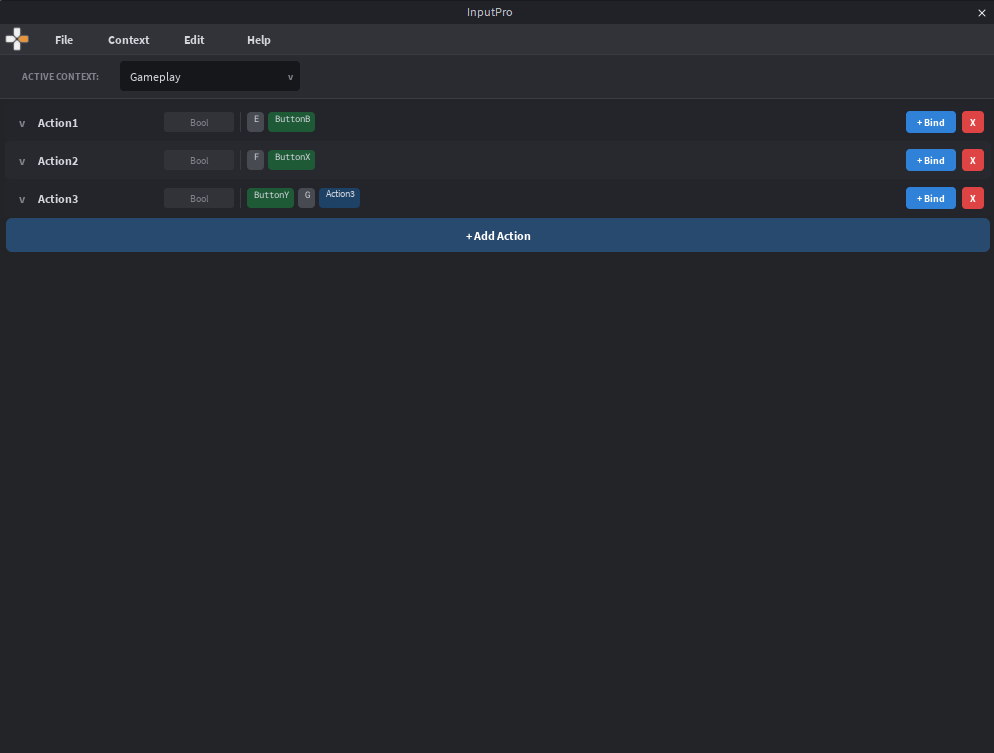
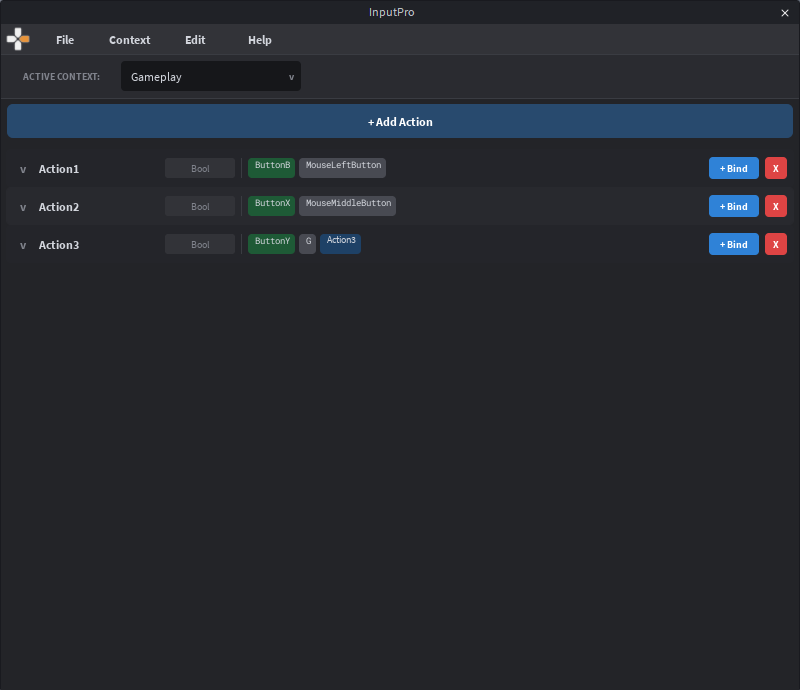
See change log 1.1.0

diff --git a/docs/index.html b/docs/index.html
@@ -189,7 +189,7 @@
 <!-- ============================================================ -->
 <nav>
   <div class="nav-inner">
-    <a href="#" class="logo"><svg xmlns="http://www.w3.org/2000/svg" viewBox="0 0 620 200" width="140" height="45"><g transform="translate(100, 100)"><path d="M-16,-49.5 Q-16,-55.5 -10,-55.5 L10,-55.5 Q16,-55.5 16,-49.5 L16,-23.5 Q16,-17.5 3,-7.5 Q0,-4.5 -3,-7.5 Q-16,-17.5 -16,-23.5 Z" fill="#f0f0f0"/><path d="M-16,49.5 Q-16,55.5 -10,55.5 L10,55.5 Q16,55.5 16,49.5 L16,23.5 Q16,17.5 3,7.5 Q0,4.5 -3,7.5 Q-16,17.5 -16,23.5 Z" fill="#f0f0f0"/><path d="M-49.5,-16 Q-55.5,-16 -55.5,-10 L-55.5,10 Q-55.5,16 -49.5,16 L-23.5,16 Q-17.5,16 -7.5,3 Q-4.5,0 -7.5,-3 Q-17.5,-16 -23.5,-16 Z" fill="#f0f0f0"/><path d="M49.5,-16 Q55.5,-16 55.5,-10 L55.5,10 Q55.5,16 49.5,16 L23.5,16 Q17.5,16 7.5,3 Q4.5,0 7.5,-3 Q17.5,-16 23.5,-16 Z" fill="#e8943a"/></g><text x="172" y="118" font-family="'Nunito', sans-serif" font-size="64" font-weight="800" letter-spacing="-1"><tspan fill="#f0f0f0">input</tspan><tspan fill="#e8943a">pro</tspan></text></svg></a>
+    <a href="#" class="logo"><img src="assets/logo_stroked.png" alt="InputPro" height="45"></a>
     <div class="nav-links">
       <a href="#plugin">Plugin</a>
       <a href="#runtime">Runtime API</a>
@@ -204,7 +204,7 @@
 <!-- ============================================================ -->
 <div class="container">
 <section class="hero">
-  <svg xmlns="http://www.w3.org/2000/svg" viewBox="0 0 620 200" width="400" height="130" style="margin-bottom: 12px;"><g transform="translate(100, 100)"><path d="M-16,-49.5 Q-16,-55.5 -10,-55.5 L10,-55.5 Q16,-55.5 16,-49.5 L16,-23.5 Q16,-17.5 3,-7.5 Q0,-4.5 -3,-7.5 Q-16,-17.5 -16,-23.5 Z" fill="#f0f0f0"/><path d="M-16,49.5 Q-16,55.5 -10,55.5 L10,55.5 Q16,55.5 16,49.5 L16,23.5 Q16,17.5 3,7.5 Q0,4.5 -3,7.5 Q-16,17.5 -16,23.5 Z" fill="#f0f0f0"/><path d="M-49.5,-16 Q-55.5,-16 -55.5,-10 L-55.5,10 Q-55.5,16 -49.5,16 L-23.5,16 Q-17.5,16 -7.5,3 Q-4.5,0 -7.5,-3 Q-17.5,-16 -23.5,-16 Z" fill="#f0f0f0"/><path d="M49.5,-16 Q55.5,-16 55.5,-10 L55.5,10 Q55.5,16 49.5,16 L23.5,16 Q17.5,16 7.5,3 Q4.5,0 7.5,-3 Q17.5,-16 23.5,-16 Z" fill="#e8943a"/></g><text x="172" y="118" font-family="'Nunito', sans-serif" font-size="64" font-weight="800" letter-spacing="-1"><tspan fill="#f0f0f0">input</tspan><tspan fill="#e8943a">pro</tspan></text></svg>
+  <img src="assets/logo_stroked.png" alt="InputPro" height="130" style="margin-bottom: 12px;">
   <p class="tagline">Visual input binding editor for Roblox's Input Action System. Configure keyboard, gamepad, and touch bindings in Studio.</p>
   <div class="badges">
     <span class="badge badge-green">Free Runtime</span>
@@ -284,6 +284,10 @@
 
   <div class="callout warn">
     <strong>Reserved Keys:</strong> Some keys (F1-F12, Escape, etc.) are intercepted by Studio and cannot be bound via listen mode. Check <strong>Help > Reserved Keys</strong> for the full list.
+  </div>
+
+  <div class="callout">
+    <strong>Mouse Buttons:</strong> Right-click and middle-click are captured automatically in listen mode. Left-click (MouseButton1) cannot be captured this way because it's used to interact with the plugin UI. To bind MouseButton1, switch to <strong>Browse</strong> mode during listen and select it from the dropdown list.
   </div>
 
   <h4>Touch</h4>

diff --git a/CHANGELOG.md b/CHANGELOG.md
@@ -1,5 +1,24 @@
 # Changelog
 
+## 1.1.0 — 2026-04-07
+
+### **Re-install the runtime** to get mouse button icon support!
+
+### Added
+- Mouse button icons for `GetInputImage` and `CreatePromptHint` — custom glyph assets for MouseLeftButton, MouseRightButton, MouseMiddleButton
+- Toast hint when entering keyboard listen mode — reminds users that left click must be added via Browse mode
+
+### Fixed
+- Insert Code popup couldn't be opened without a script selected — popup now opens freely, selection is checked only on insert
+- Explorer selection cleared on widget focus — now only clears during input listen mode, preserving selection for Insert Code
+- `GetInputImage` crashed on mouse button bindings — fixed with instance name lookup
+
+### Changed
+- Mouse button display names unified to `MouseLeftButton` / `MouseRightButton` / `MouseMiddleButton` across plugin UI, export, and runtime
+- Add Action button moved outside scroll area — always visible regardless of widget size
+
+---
+
 ## 1.0.0 — 2026-04-04
 
 Initial public release.
